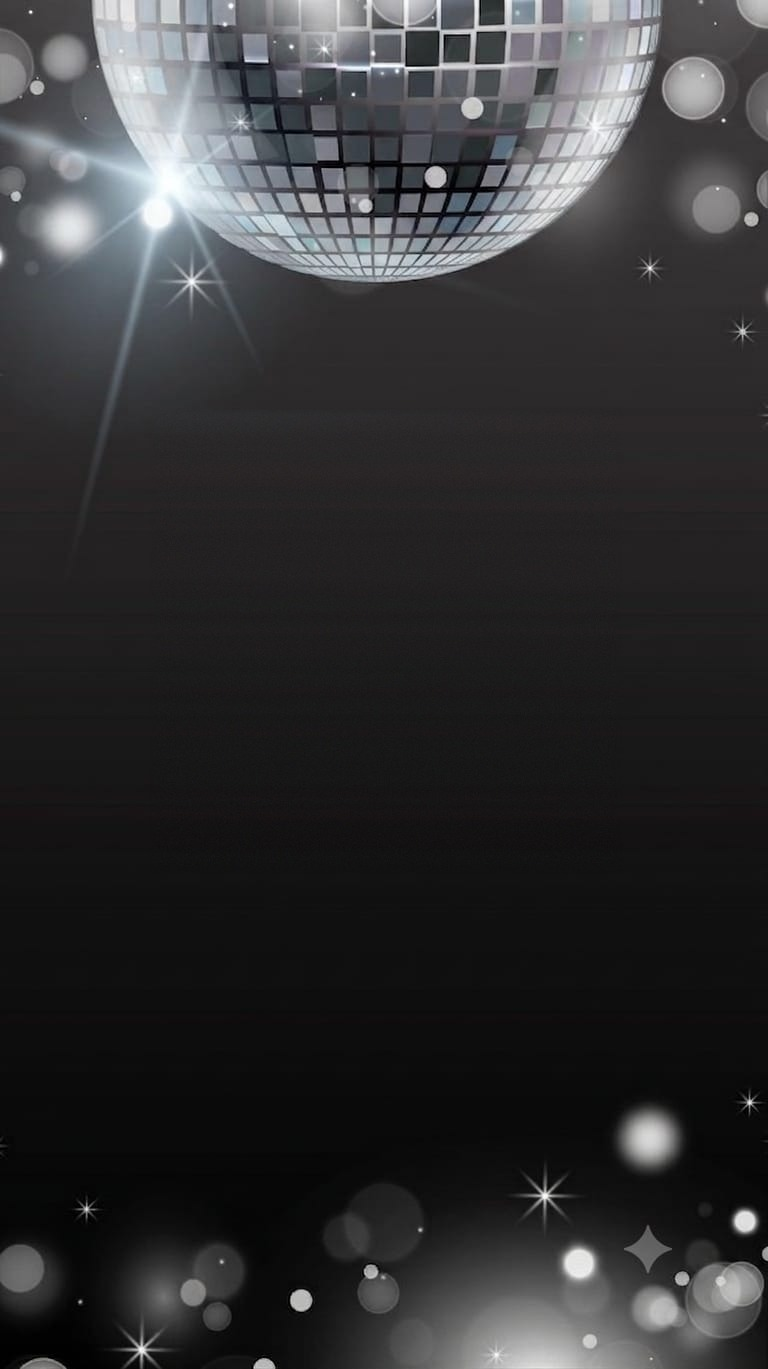
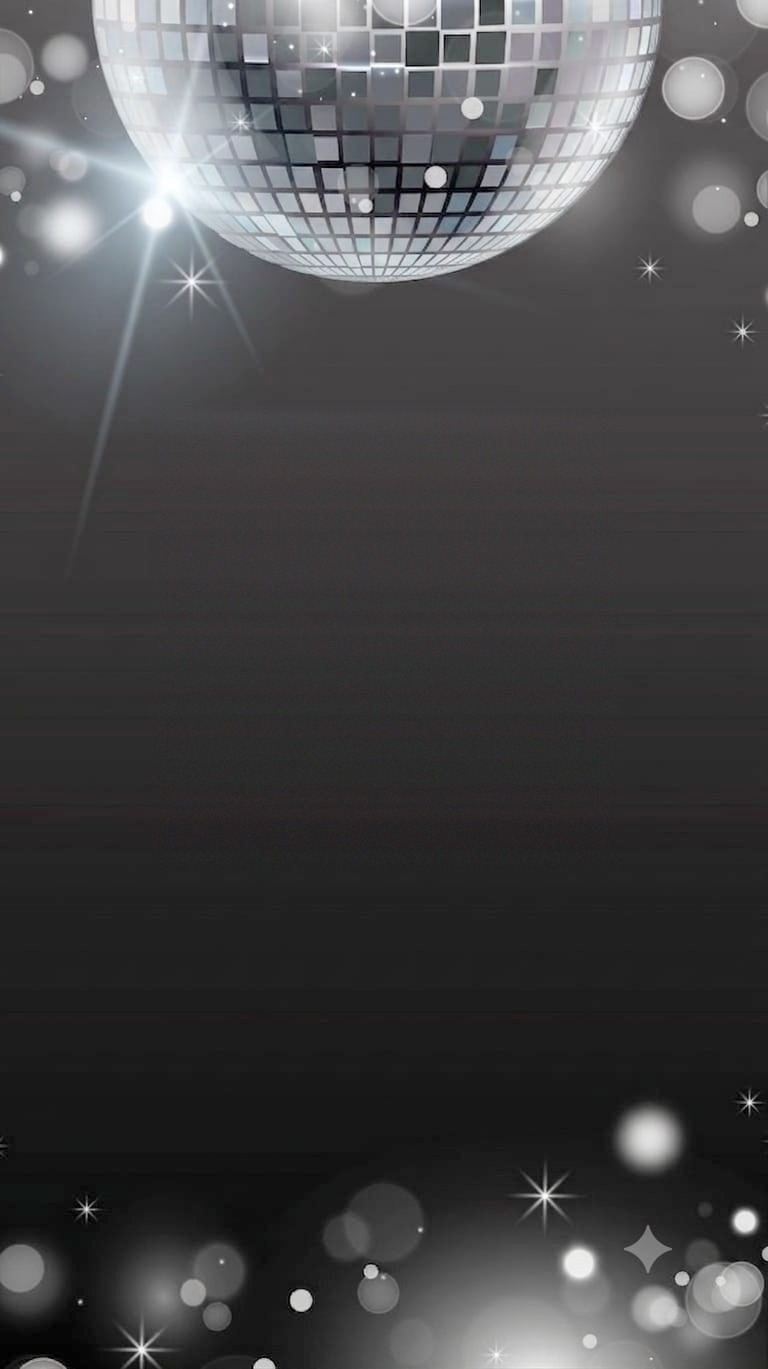
Fondo más luminoso, texto resaltado y zoom táctil habilitado
- fondo-login.jpeg regenerado con sombras levantadas (gamma 1.35):
  el fondo deja de verse negro sin perder el clima de noche.
- Overlay inferior más suave y gradiente de respaldo más claro.
- Texto del Save the Date más grande, blanco y con resplandor
  (text-glow) para que se lea bien sobre la foto.
- Zoom con los dedos habilitado: se quitan maximum-scale=1 y
  user-scalable=no del viewport.

https://claude.ai/code/session_01EW6yK3wBfoR1Qky8xdBzoG

diff --git a/index.html b/index.html
@@ -2,7 +2,8 @@
 <html lang="es">
 <head>
   <meta charset="UTF-8">
-  <meta name="viewport" content="width=device-width, initial-scale=1.0, maximum-scale=1.0, user-scalable=no">
+  <!-- Zoom con los dedos habilitado en toda la app (sin maximum-scale ni user-scalable=no) -->
+  <meta name="viewport" content="width=device-width, initial-scale=1.0">
   <title>CatApp — Mis XV Cata</title>
   
   <!-- Tailwind CSS CDN para renderizado inmediato -->
@@ -39,7 +40,7 @@
 
     /* Fondo base por defecto con gradiente de noche */
     .save-the-date-bg {
-      background: radial-gradient(circle at top, #121214 0%, #000000 100%);
+      background: radial-gradient(circle at top, #26262c 0%, #0a0a0c 100%);
       background-size: cover;
       background-position: center top;
       background-repeat: no-repeat;
@@ -47,10 +48,16 @@
     }
 
     /* Clase activa que se inyecta por JS cuando "fondo-login.jpeg" carga con éxito.
-       La imagen es la invitación original pero SIN el texto horneado: los textos
-       (MIS XV / Cata / 11.09.26) se renderizan en HTML, siempre bien arriba. */
+       La imagen es la invitación original pero SIN el texto horneado y con las
+       sombras levantadas (menos negra): los textos (MIS XV / Cata / 11.09.26)
+       se renderizan en HTML, siempre bien arriba. */
     .bg-image-loaded {
-      background-image: linear-gradient(to bottom, rgba(0,0,0,0) 48%, rgba(0,0,0,0.82) 100%), url('fondo-login.jpeg') !important;
+      background-image: linear-gradient(to bottom, rgba(0,0,0,0) 58%, rgba(0,0,0,0.55) 100%), url('fondo-login.jpeg') !important;
+    }
+
+    /* Resplandor suave para que el texto del Save the Date resalte sobre la foto */
+    .text-glow {
+      text-shadow: 0 0 26px rgba(255, 255, 255, 0.5), 0 2px 12px rgba(0, 0, 0, 0.85);
     }
 
     /* Con la imagen cargada, la bola de espejos HTML se convierte en un espaciador
@@ -154,9 +161,9 @@
 
     <!-- TEXTOS DEL SAVE THE DATE (siempre visibles, bien arriba sobre la imagen) -->
     <div id="html-replica-header" class="text-center -mt-6 w-full relative z-10">
-      <span class="text-[10px] tracking-[0.45em] font-serif text-zinc-400 font-bold uppercase">MIS XV</span>
-      <h1 class="text-6xl font-cursive text-white tracking-wide mt-1 mb-2 select-none">Cata</h1>
-      <p class="text-base font-serif tracking-[0.3em] text-white/95 font-semibold">11.09.26</p>
+      <span class="text-[11px] tracking-[0.45em] font-serif text-zinc-100 font-bold uppercase text-glow">MIS XV</span>
+      <h1 class="text-7xl font-cursive text-white tracking-wide mt-1 mb-2 select-none text-glow">Cata</h1>
+      <p class="text-lg font-serif tracking-[0.3em] text-white font-semibold text-glow">11.09.26</p>
     </div>
 
     <!-- CAJA DE ACCESO MINIMALISTA (Ubicada en la base para no tapar los textos de tu foto) -->